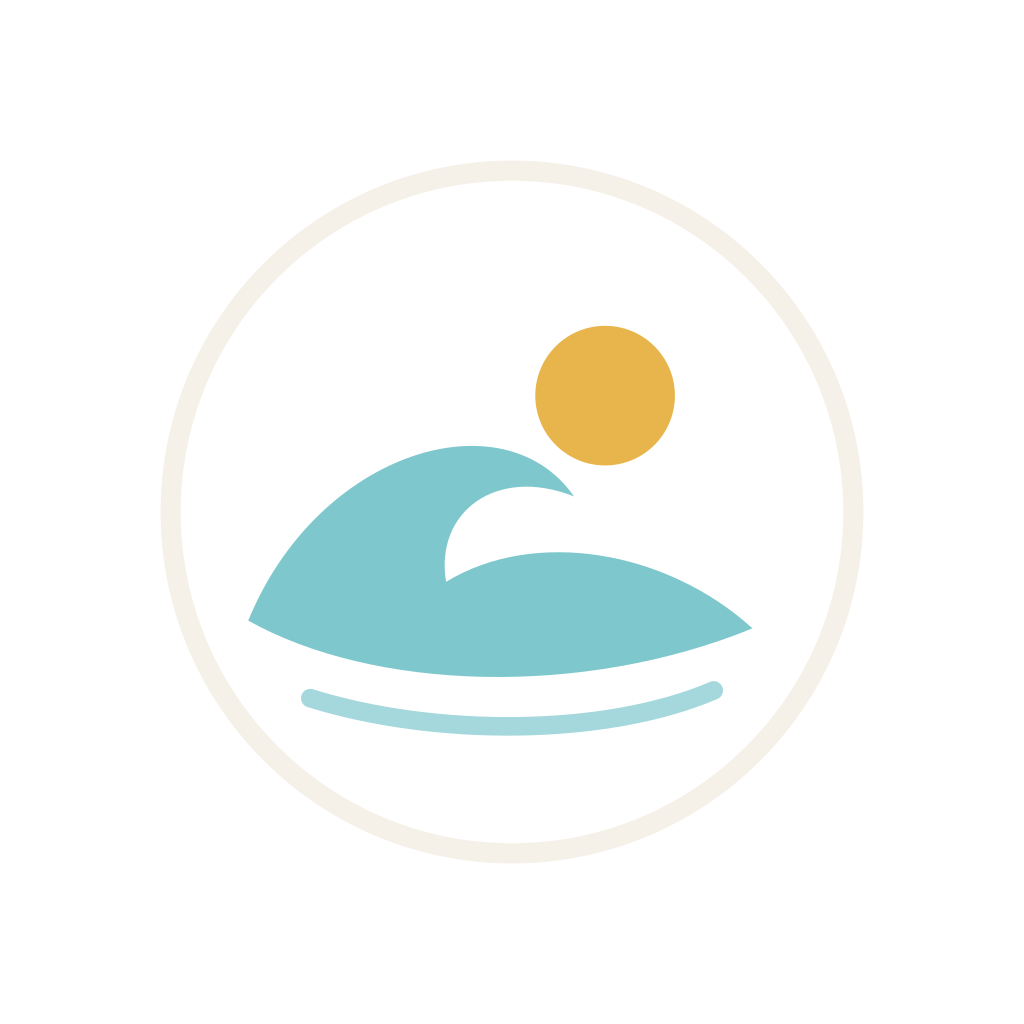
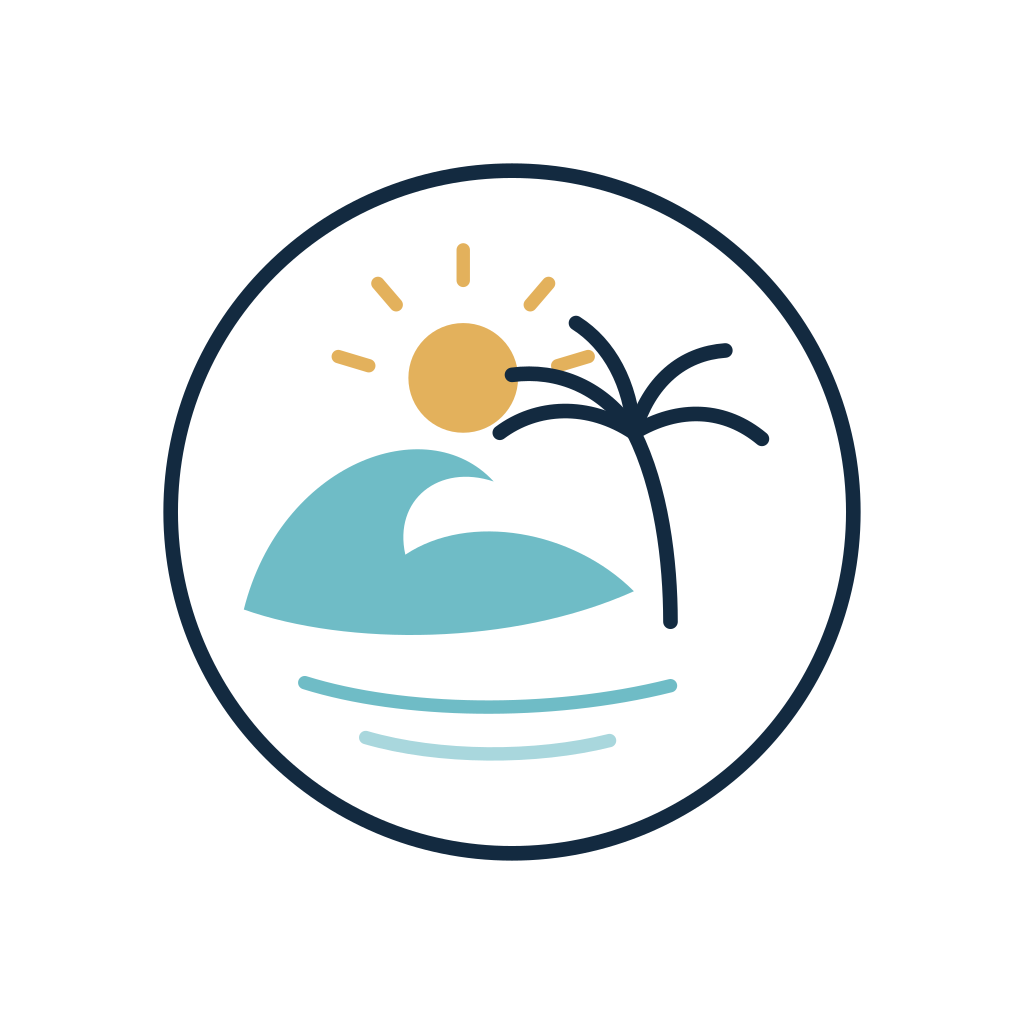
The palm mark replaces the last four copies of the old one
#117 shipped the kit and listed four surviving copies of the pre-palm mark
outside public/brand. This replaces all four. No geometry was redrawn: every
replacement is either the master file itself or a verbatim copy of it, inks
included.

components/brand/Logo.tsx — STOPPED DRAWING THE MARK
It drew a ring at r=44, a sun at cx=50 cy=46 and two quadratic wave bands,
inked from the UI's CSS variables. That is the pre-palm mark, and because
FrontDoor -> Wordmark -> Logo is the chain a visitor meets, it was the first
thing anyone saw of this brand. It now renders <BrandMark>, which is the one
component that shows the designer's master — so there is a single drawing of
the mark in the app and this file has no copy left to fall behind with.

Props, defaults and meanings are unchanged (`size`, `className`, `title`), so
Wordmark.tsx and FrontDoor.tsx needed no edit, and `title` still becomes the
image's accessible name rather than quietly changing what a screen reader
heard. `onDark` is added, not forked: BrandMark already draws a reverse master
for navy grounds and exposing it here is what stops the next person hand-rolling
one. Nothing passes it today — Wordmark's own `onDark` switches the TEXT only.

native/www/index.html — THE OFFLINE SCREEN
Ring r=46 teal, one wave path, sun cx=50 cy=36. Replaced with the geometry and
hexes of ediagd-mark-primary-dark.svg, copied verbatim — the REVERSE master,
because this screen's ground is navy. It stays inlined rather than becoming an
[…]

diff --git a/components/brand/Logo.tsx b/components/brand/Logo.tsx
@@ -1,59 +1,55 @@
-/**
- * EDIAGD logo mark — the brand-book badge: a gold sunrise over a teal wave,
- * inside a navy ring. Colors are driven by brand CSS variables.
- *
- * This replaces the prototype's "Eddie" tiki, which was not in the brand book.
- * (If you keep Eddie as an in-app guide *character*, treat it as a separate
- * illustration, not the logo.)
- */
-type LogoProps = { size?: number; className?: string; title?: string };
+/* ============================================================================
+   EDIAGD logo mark — now the master, not a second drawing of it
 
-const v = (name: string) => `rgb(var(${name}))`;
+   ---------------------------------------------------------------------------
+   WHAT THIS USED TO BE, AND WHY IT HAD TO STOP
+   ---------------------------------------------------------------------------
+   This file drew the mark inline: a ring at r=44, a sun at cx=50 cy=46, and
+   two quadratic wave bands, inked from the UI's CSS variables. That is the
+   PRE-PALM mark. It kept rendering it for as long as it existed, and because
+   FrontDoor -> Wordmark -> Logo is the chain a visitor actually meets, the old
+   mark was the first thing anyone saw of this brand.
 
-export function Logo({ size = 56, className, title = "EDIAGD" }: LogoProps) {
-  const navy = v("--ediagd-navy");
-  const teal = v("--ediagd-teal");
-  const gold = v("--ediagd-gold");
-  const cream = v("--ediagd-cream");
+   lib/brand-ink.ts already wrote down why: "the palm went into the master
+   files and appeared in none of the four places the mark is hand-drawn ...
+   because every one of them carried its own private copy of the geometry AND
+   its own hex codes." This was the fifth.
 
-  return (
-    <svg
-      width={size}
-      height={size}
-      viewBox="0 0 100 100"
-      role="img"
-      aria-label={title}
-      className={className}
-    >
-      <defs>
-        <clipPath id="ediagd-ring">
-          <circle cx="50" cy="50" r="44" />
-        </clipPath>
-      </defs>
+   So it no longer draws anything. It renders <BrandMark>, which is the one
+   component that shows the designer's master file, and it cannot fall behind
+   that master because it no longer has a copy to fall behind with.
 
-      {/* paper fill inside the ring */}
-      <circle cx="50" cy="50" r="44" fill={cream} />
+   ---------------------------------------------------------------------------
+   THE PROPS ARE UNCHANGED ON PURPOSE
+   ---------------------------------------------------------------------------
+   `size`, `className` and `title` keep their names, their defaults and their
+   meanings, so Wordmark.tsx and FrontDoor.tsx needed no edit. `title` still
+   becomes the image's accessible name, which preserves what a screen reader
+   heard before rather than quietly changing it alongside the artwork.
 
-      <g clipPath="url(#ediagd-ring)">
-        {/* sun */}
-        <circle cx="50" cy="46" r="15" fill={gold} />
-        {/* sun rays */}
-        <g stroke={gold} strokeWidth="3" strokeLinecap="round">
-          <line x1="50" y1="18" x2="50" y2="26" />
-          <line x1="30" y1="26" x2="35" y2="31" />
-          <line x1="70" y1="26" x2="65" y2="31" />
-          <line x1="22" y1="46" x2="30" y2="46" />
-          <line x1="70" y1="46" x2="78" y2="46" />
-        </g>
-        {/* two teal waves */}
-        <path d="M4 66 q 12 -9 23 0 t 23 0 t 23 0 t 23 0 v 40 H4 Z" fill={teal} opacity="0.55" />
-        <path d="M4 74 q 12 -9 23 0 t 23 0 t 23 0 t 23 0 v 30 H4 Z" fill={teal} />
-      </g>
+   `onDark` is new and additive: BrandMark already draws a reverse master for
+   navy grounds, and exposing it here is what stops the next person hand-rolling
+   a dark variant. Nothing passes it today — Wordmark's own `onDark` switches
+   the TEXT only, and the one call site is the front door on cream.
+============================================================================ */
 
-      {/* navy ring */}
-      <circle cx="50" cy="50" r="44" fill="none" stroke={navy} strokeWidth="4" />
-    </svg>
-  );
+import { BrandMark } from "./BrandMark";
+
+type LogoProps = {
+  size?: number;
+  className?: string;
+  title?: string;
+  /** Navy ground: takes the reverse master, which is drawn, not filtered. */
+  onDark?: boolean;
+};
+
+export function Logo({
+  size = 56,
+  className,
+  title = "EDIAGD",
+  onDark = false,
+}: LogoProps) {
+  return <BrandMark size={size} onDark={onDark} className={className} alt={title} />;
 }
 
 export default Logo;

diff --git a/native/www/index.html b/native/www/index.html
@@ -41,12 +41,35 @@
 </head>
 <body>
   <div class="wrap">
-    <!-- Inlined so the fallback needs no second request to render. -->
-    <svg class="mark" viewBox="0 0 100 100" aria-hidden="true">
-      <circle cx="50" cy="50" r="46" fill="none" stroke="#4AA8B0" stroke-width="3"/>
-      <path d="M18 62c8 0 8-7 16-7s8 7 16 7 8-7 16-7 8 7 16 7"
-            fill="none" stroke="#7EC8CD" stroke-width="4" stroke-linecap="round"/>
-      <circle cx="50" cy="36" r="11" fill="#E8B44C"/>
+    <!-- Inlined so the fallback needs no second request to render: this is the
+         offline screen, and an <img> of the master would be one more thing that
+         can fail to arrive. The geometry and the hexes below are COPIED VERBATIM
+         from public/brand/svg/ediagd-mark-primary-dark.svg — the reverse master,
+         because this screen's ground is navy. Do not restyle it here; if the
+         mark changes, re-copy that file. -->
+    <svg class="mark" viewBox="0 0 120 120" aria-hidden="true">
+      <circle cx="60" cy="60" r="56" fill="none" stroke="#f2efe8" stroke-width="2.4"/>
+      <circle cx="52" cy="38" r="9" fill="#e3b15c"/>
+      <g stroke="#e3b15c" stroke-width="2.2" stroke-linecap="round" fill="none">
+        <line x1="52" y1="22" x2="52" y2="17"/>
+        <line x1="41" y1="26" x2="38" y2="22.5"/>
+        <line x1="63" y1="26" x2="66" y2="22.5"/>
+        <line x1="36.5" y1="36" x2="31.5" y2="34.5"/>
+        <line x1="67.5" y1="36" x2="72.5" y2="34.5"/>
+      </g>
+      <g fill="none" stroke="#f2efe8" stroke-width="2.4" stroke-linecap="round">
+        <path d="M86 78 C 86 68, 84.5 56, 80 47"/>
+        <path d="M80 47 C 72.5 42, 64 42.5, 58 47"/>
+        <path d="M80 47 C 75 39.5, 67.5 36.5, 60 37.5"/>
+        <path d="M80 47 C 82.5 38.5, 88 34, 95 33.5"/>
+        <path d="M80 47 C 87.5 42.5, 95 43, 101 48"/>
+        <path d="M80 47 C 79.5 39, 76 32.5, 70.5 29"/>
+      </g>
+      <path d="M16 76 C 22 52, 46 43, 57 55 C 48 52, 40.5 58, 42.5 67 C 53 60, 70 63, 80 73 C 60 82, 33 82, 16 76 Z" fill="#6fbcc6"/>
+      <g fill="none" stroke="#6fbcc6" stroke-width="2.2" stroke-linecap="round">
+        <path d="M26 88 C 42 93, 66 93.5, 86 88.5"/>
+        <path d="M36 97 C 48 100.5, 64 100.5, 76 97.5" opacity="0.6"/>
+      </g>
     </svg>
     <h1>No signal right now</h1>
     <p>Your numbers are safe. This screen comes back the moment you&rsquo;re connected again.</p>
